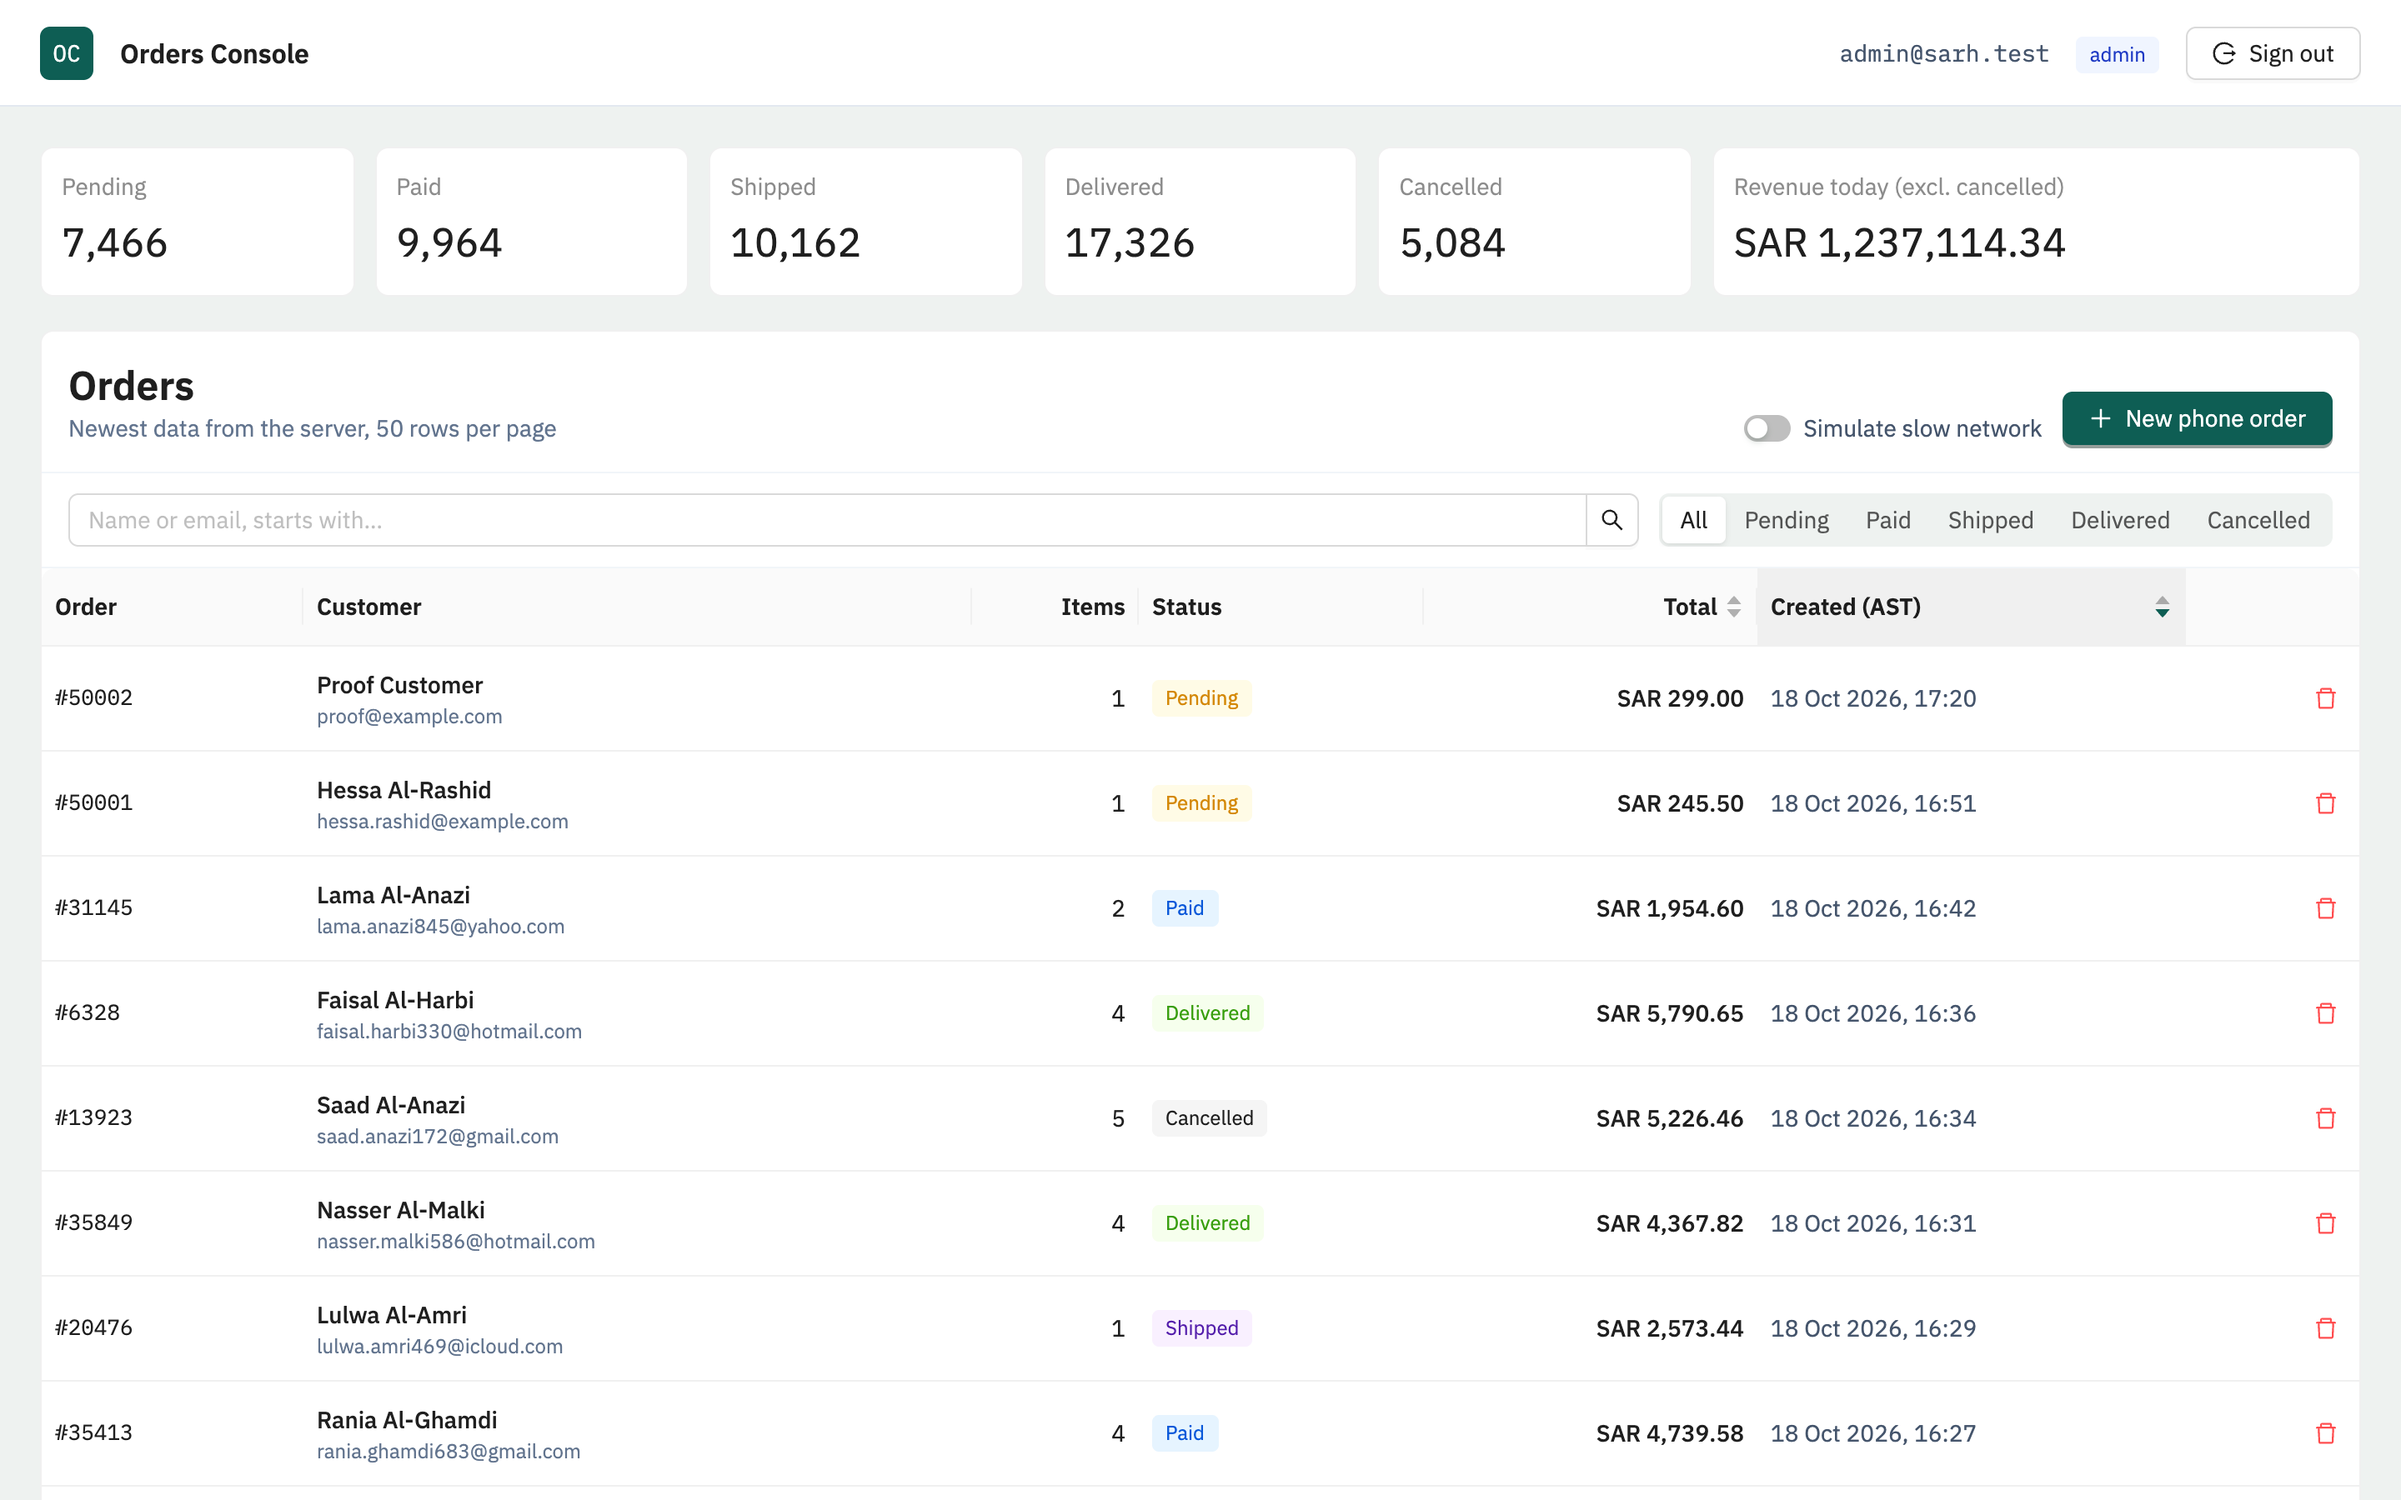
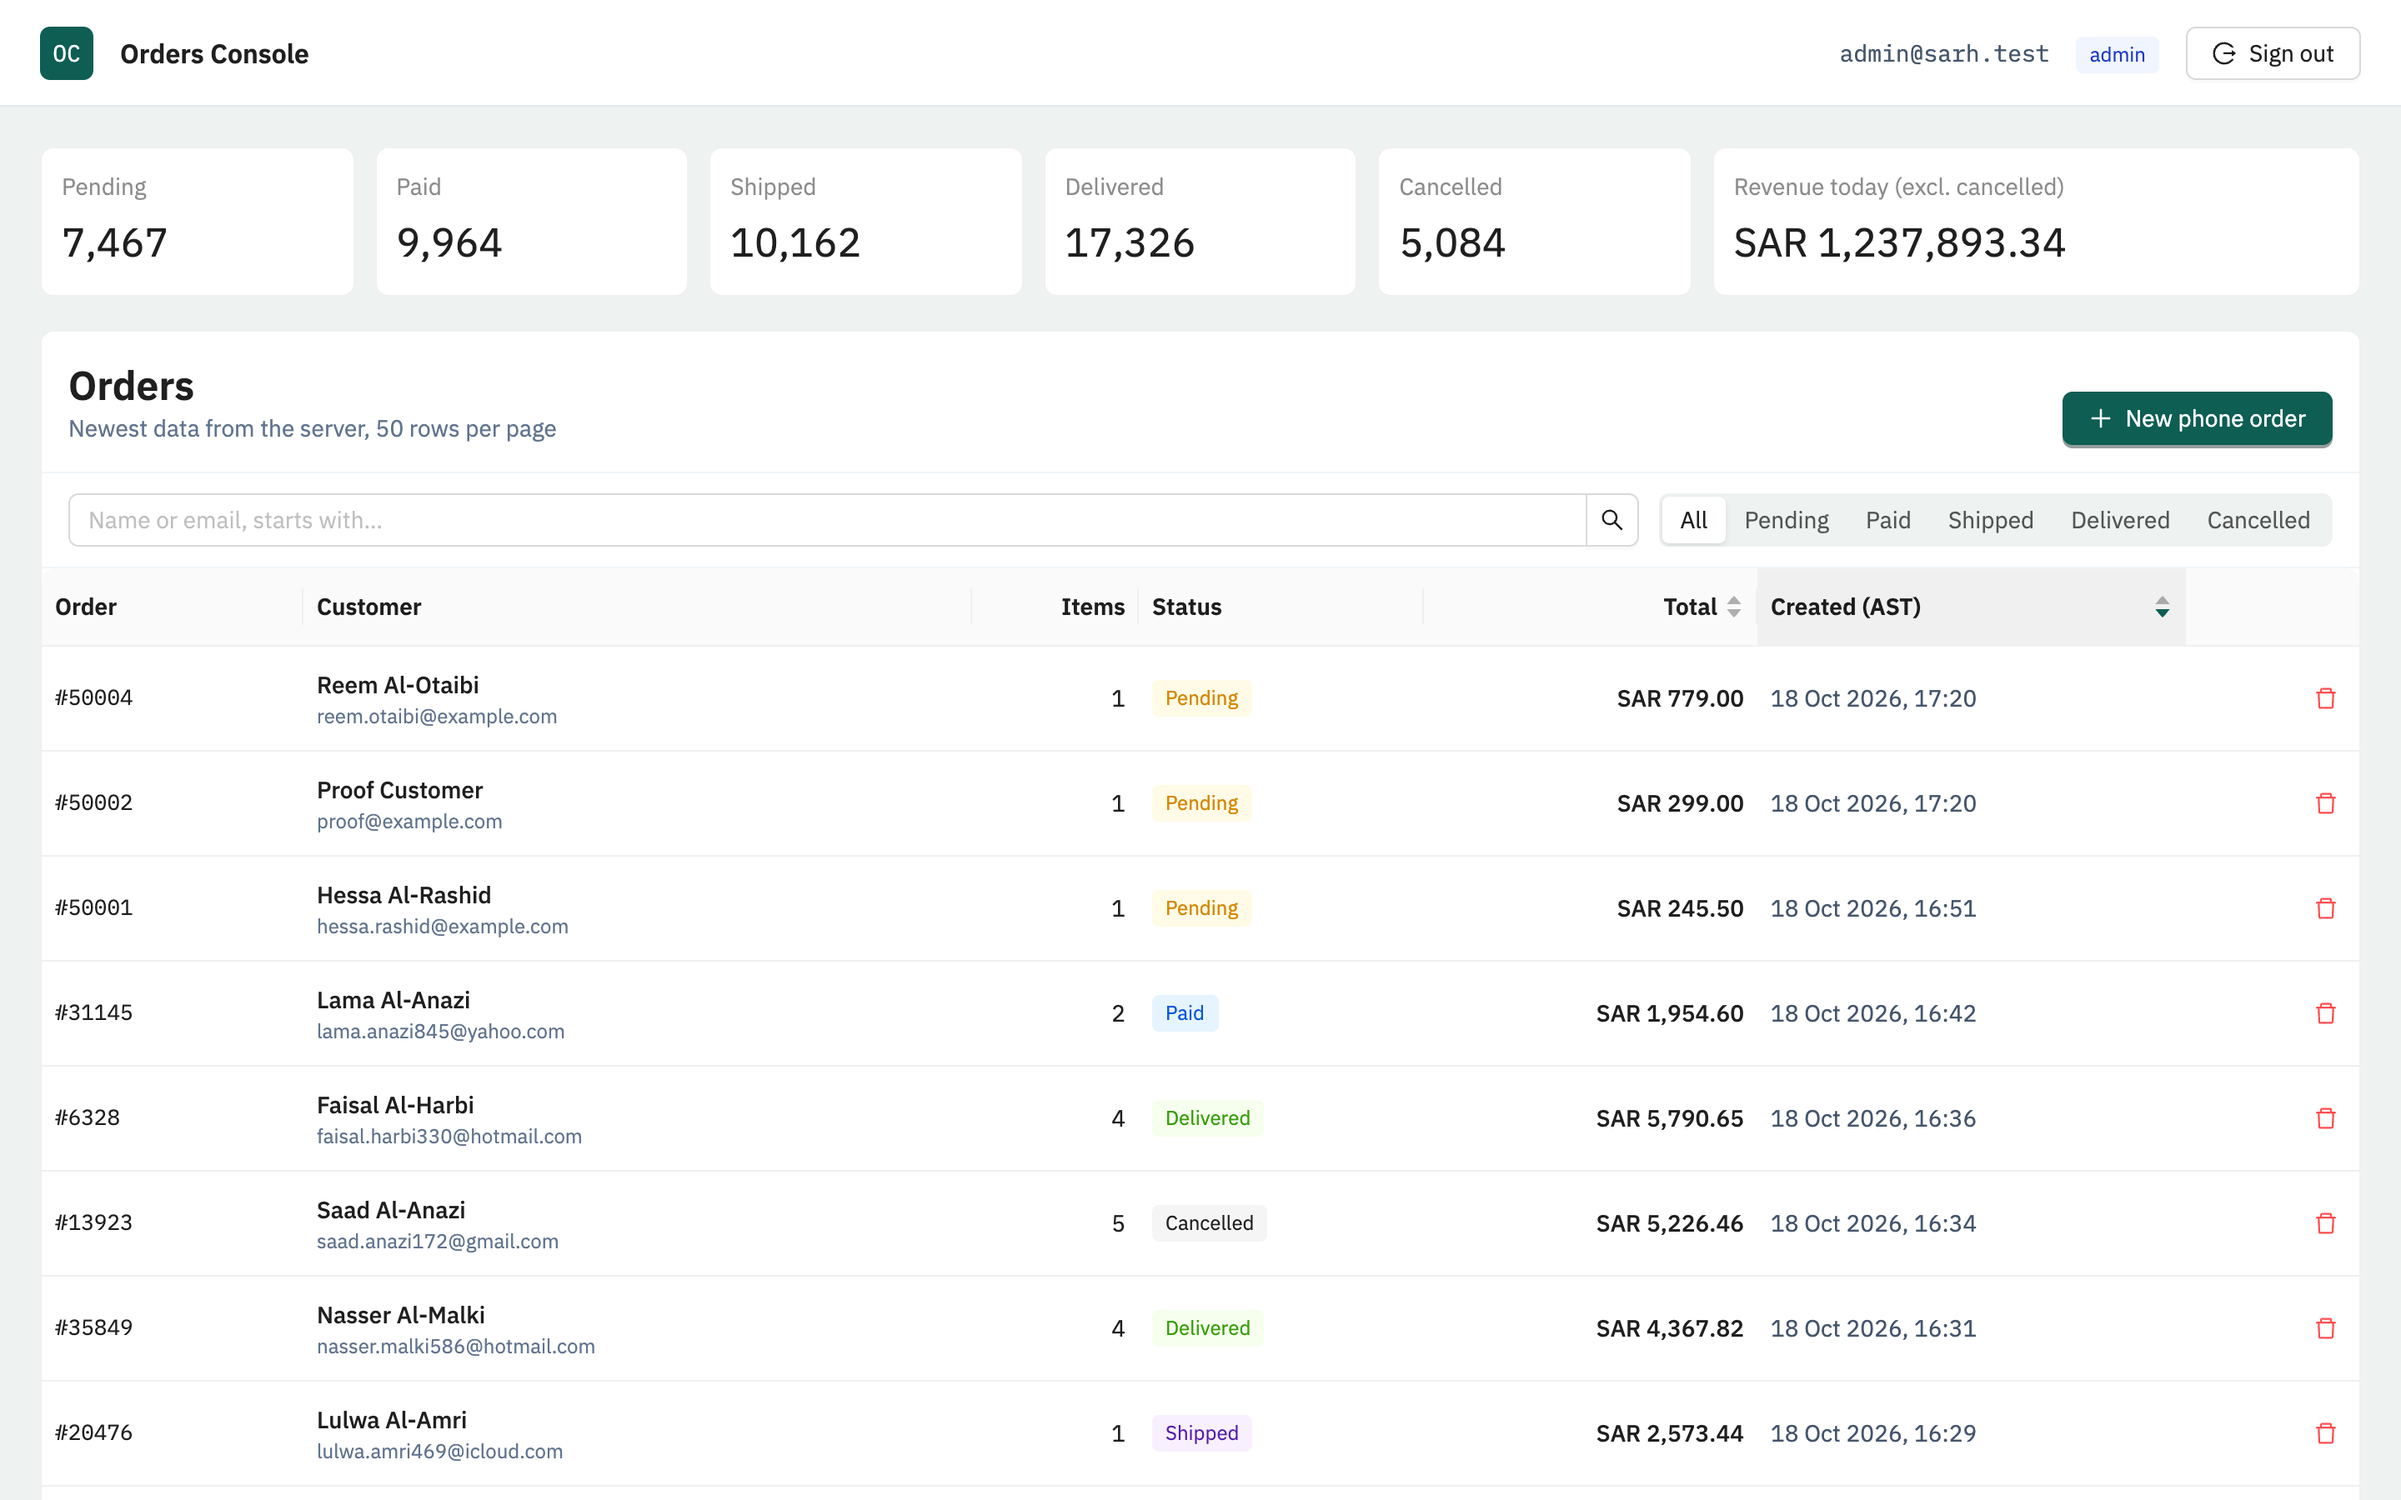
docs: describe the R1 browser test and retake screenshots without the switch

diff --git a/README.md b/README.md
@@ -34,6 +34,7 @@ The API refuses to start without one.
 npm test                    # API tests against a real, temporary mongod (downloaded on first run)
 npm run check               # typecheck + lint + format check + tests, all workspaces
 npm run prove:idempotency   # R2 proof against your seeded database
+npm run test:e2e            # R1 browser test (Playwright, uses your installed Chrome)
 ```
 
 `prove:idempotency` logs in as the agent, sends the same `POST /api/orders` twice in parallel with one `Idempotency-Key`, and prints:
@@ -47,11 +48,26 @@ PASS: exactly one order was created.
 
 Set `PARALLEL=10` to fire ten at once.
 
-### Trying R1 by hand
+### The R1 browser test
 
-Turn on **Simulate slow network** (dev builds only) above the table. Each list request then waits a random 0.3–2 s before it is sent.
-Click three status filters quickly: the table always ends on the last one you clicked.
-To see the stats error state, set `STATS_FAIL_RATE=1` in `apps/api/.env` and restart the API.
+Locally every request is fast and they come back in order, so clicking quickly by hand can't produce "an earlier, slower request".
+[`e2e/rapid-filter.spec.ts`](apps/web/e2e/rapid-filter.spec.ts) creates that race on purpose with Playwright:
+
+1. It holds the Pending response for 2 s and the Shipped response for 1 s, and lets Cancelled through at once.
+2. It clicks Pending, Shipped, Cancelled 100 ms apart.
+3. The responses arrive in the order Cancelled, Shipped, Pending, the stale ones last.
+4. It checks that the table still shows only Cancelled orders, with the Cancelled filter selected and in the URL.
+
+```
+clicked Pending -> Shipped -> Cancelled; responses delivered: cancelled -> shipped -> pending
+✓ R1: an earlier, slower response never overwrites the latest filter
+```
+
+I also checked that the test can fail: against a naive `useEffect` fetch with no abort and no "latest wins" guard, it fails because stale Pending rows appear under the Cancelled filter.
+`npm run test:e2e` needs MongoDB running and seeded. It starts the API and web app if they aren't already running.
+It uses your installed Google Chrome; to use Playwright's own browser instead, run `npx playwright install chromium` and set `PW_CHANNEL=chromium`.
+
+To see the stats error state by hand, set `STATS_FAIL_RATE=1` in `apps/api/.env` and restart the API.
 
 ## How the two hard problems are solved
 
@@ -109,7 +125,7 @@ If storage turns out to be the real reason, I'd propose an admin-only, logged, r
 - **Total match count.** `countDocuments` on every filter change is the slowest part of a list at scale, so the UI shows "N loaded, scroll for more" instead.
 - **Substring search.** Search is prefix-only so it stays on an index. Substring search would need a text or Atlas Search index (see SCALE.md).
 - **Idempotency key expiry.** Keys stay on the order forever. That's cheap at this size, but it means a key can never be reused.
-- **Front-end tests.** The API carries the correctness tests (R2 proof, auth, pagination). The rapid-filter behaviour is checked by hand, as the brief describes.
+- **More front-end tests.** The browser suite covers the R1 race only. The create form, delete and stats states are covered by API tests and checked by hand.
 - **CSRF token.** Relying on SameSite=Strict + same-origin + JSON-only bodies. A cross-origin deployment would need a token.
 - **Bundle size.** The production bundle is about 420 kB gzipped, mostly antd. Route-level code splitting would fix it but adds nothing to this review.
 - **Gap-free order numbers.** When two copies of the same request arrive together, both reserve an order number before the unique index picks a winner, so the loser's number is never used (for example #50003). The numbers stay unique and increasing; only the gaps are visible.
@@ -117,9 +133,9 @@ If storage turns out to be the real reason, I'd propose an admin-only, logged, r
 
 ## Screenshots
 
-|                                                                                                                                                                                                                                                                            |                                                                                                                                                                     |
-| -------------------------------------------------------------------------------------------------------------------------------------------------------------------------------------------------------------------------------------------------------------------------- | ------------------------------------------------------------------------------------------------------------------------------------------------------------------- |
-| **R1, rapid filter test, in flight.** Pending, then Shipped, then Cancelled, clicked 120 ms apart with a slow network. The Cancelled filter is already selected while the previous rows stay dimmed under "Updating…". ![](docs/screenshots/02-rapid-filter-in-flight.png) | **R1, settled.** Only Cancelled orders are shown; the slower earlier requests never overwrote it. ![](docs/screenshots/03-rapid-filter-settled.png)                 |
-| **R2, the create form.** Validated with the shared schemas. The Idempotency-Key at the bottom stays the same across retries. ![](docs/screenshots/04-create-order-drawer.png)                                                                                              | **R2, the duplicate proof.** Two identical requests in parallel: one 201, one replayed 200, one order in the database. ![](docs/screenshots/06-duplicate-proof.png) |
+|                                                                                                                                                                                         |                                                                                                                                                                     |
+| --------------------------------------------------------------------------------------------------------------------------------------------------------------------------------------- | ------------------------------------------------------------------------------------------------------------------------------------------------------------------- |
+| **R1, the browser test.** Pending, Shipped and Cancelled responses are delivered stale-last, and the table still shows the latest filter. ![](docs/screenshots/02-rapid-filter-e2e.png) | **R1, the result.** After three quick clicks, only Cancelled orders are shown. ![](docs/screenshots/03-rapid-filter-result.png)                                     |
+| **R2, the create form.** Validated with the shared schemas. The Idempotency-Key at the bottom stays the same across retries. ![](docs/screenshots/04-create-order-drawer.png)           | **R2, the duplicate proof.** Two identical requests in parallel: one 201, one replayed 200, one order in the database. ![](docs/screenshots/06-duplicate-proof.png) |
 
-More: [orders list](docs/screenshots/01-orders-list.png), [order created](docs/screenshots/05-order-created.png), [proof output as text](docs/screenshots/prove-idempotency.txt).
+More: [orders list](docs/screenshots/01-orders-list.png), [order created](docs/screenshots/05-order-created.png), [proof output as text](docs/screenshots/prove-idempotency.txt), [e2e output as text](docs/screenshots/rapid-filter-e2e.txt).
